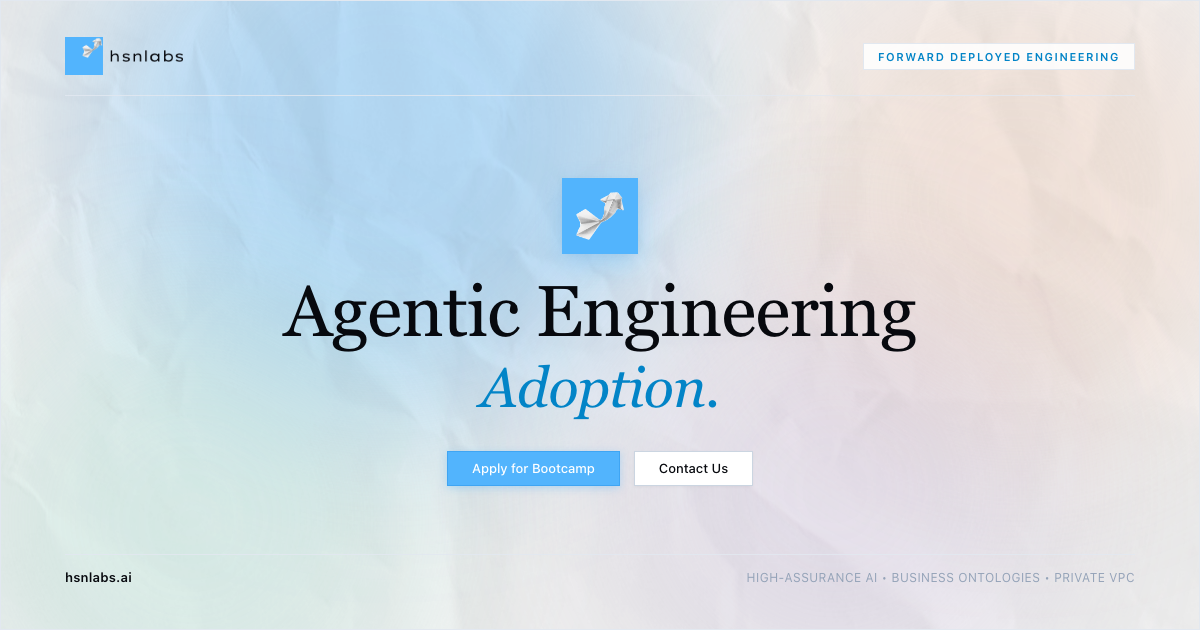
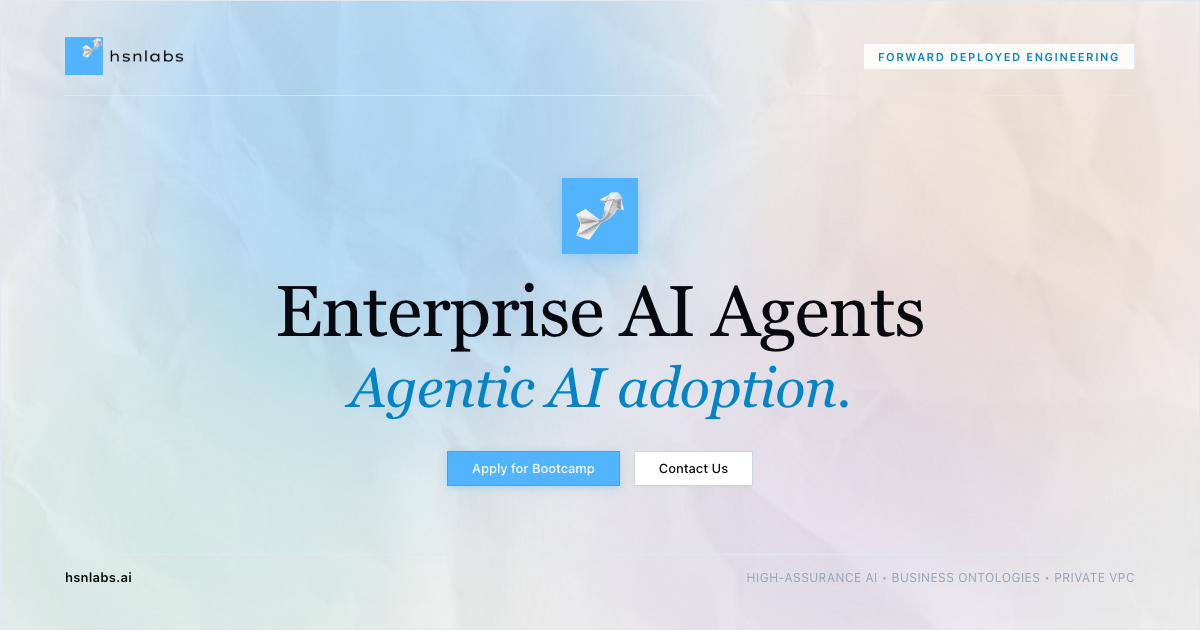
fix: headline layout single continuous fluid line

Changed region(s): [[0.2158, 0.4524, 0.7708, 0.6635]]

diff --git a/pt/index.html b/pt/index.html
@@ -157,14 +157,14 @@
     /* TYPOGRAPHY */
     .display-hero {
       font-family: var(--font-display);
+      font-size: clamp(2.8rem, 5.2vw, 4.4rem);
       font-weight: 300;
-      letter-spacing: -0.02em;
-      line-height: 1.08;
+      letter-spacing: -0.025em;
+      line-height: 1.14;
       color: var(--ink);
       max-width: 960px;
-      margin: 0 auto 36px auto;
-      word-wrap: break-word;
-      overflow-wrap: break-word;
+      margin: 0 auto 32px auto;
+      text-wrap: balance;
     }
 
     .hero-title-lead {
@@ -1392,7 +1392,7 @@
       .brand-logo-img { height: 26px !important; width: auto !important; }
       .hero-title-lead { font-size: clamp(1.65rem, 6.8vw, 2.25rem) !important; line-height: 1.12 !important; }
       .hero-title-sub { font-size: clamp(1.1rem, 4.2vw, 1.45rem) !important; line-height: 1.25 !important; margin-top: 6px !important; }
-      .display-hero { max-width: 100% !important; margin-bottom: 28px !important; text-wrap: balance; }
+      .display-hero { font-size: clamp(2rem, 7vw, 2.6rem) !important; line-height: 1.18 !important; max-width: 100% !important; margin-bottom: 24px !important; text-wrap: balance; }
     }
 </style>
 
@@ -1510,8 +1510,7 @@
 
       <!-- MAIN HEADLINE -->
       <h1 class="display-hero">
-        <span class="hero-title-lead">Adoção de</span>
-        <span class="hero-title-sub" style="color: var(--cyan-text);">Engenharia Agêntica.</span>
+        Adoção de <span style="color: var(--cyan-text);">Engenharia Agêntica.</span>
       </h1>
       <p class="hero-tagline" style="font-size: 1.15rem; color: var(--body); max-width: 680px; margin: 0 auto 32px auto; line-height: 1.6;">
         Transição operacional para agentes corporativos sem ruptura de sistemas legados ou regras de negócio.

diff --git a/index.html b/index.html
@@ -157,14 +157,14 @@
     /* TYPOGRAPHY */
     .display-hero {
       font-family: var(--font-display);
+      font-size: clamp(2.8rem, 5.2vw, 4.4rem);
       font-weight: 300;
-      letter-spacing: -0.02em;
-      line-height: 1.08;
+      letter-spacing: -0.025em;
+      line-height: 1.14;
       color: var(--ink);
       max-width: 960px;
-      margin: 0 auto 36px auto;
-      word-wrap: break-word;
-      overflow-wrap: break-word;
+      margin: 0 auto 32px auto;
+      text-wrap: balance;
     }
 
     .hero-title-lead {
@@ -1392,7 +1392,7 @@
       .brand-logo-img { height: 26px !important; width: auto !important; }
       .hero-title-lead { font-size: clamp(1.65rem, 6.8vw, 2.25rem) !important; line-height: 1.12 !important; }
       .hero-title-sub { font-size: clamp(1.1rem, 4.2vw, 1.45rem) !important; line-height: 1.25 !important; margin-top: 6px !important; }
-      .display-hero { max-width: 100% !important; margin-bottom: 28px !important; text-wrap: balance; }
+      .display-hero { font-size: clamp(2rem, 7vw, 2.6rem) !important; line-height: 1.18 !important; max-width: 100% !important; margin-bottom: 24px !important; text-wrap: balance; }
     }
 </style>
 
@@ -1510,8 +1510,7 @@
 
       <!-- MAIN HEADLINE -->
       <h1 class="display-hero">
-        <span class="hero-title-lead">Agentic Engineering</span>
-        <span class="hero-title-sub" style="color: var(--cyan-text);">Adoption.</span>
+        Agentic Engineering <span style="color: var(--cyan-text);">Adoption.</span>
       </h1>
       <p class="hero-tagline" style="font-size: 1.15rem; color: var(--body); max-width: 680px; margin: 0 auto 32px auto; line-height: 1.6;">
         Operational transition to enterprise agents without disrupting legacy systems or business rules.
